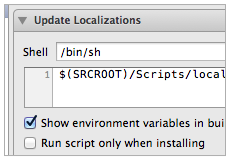
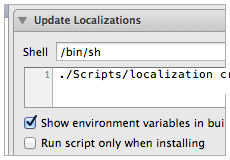
Updated documentation.
Images now match the text provided in the documentation. There's a bit more detail about how to specify the script path as well.

Changed region(s): [[0.2435, 0.4375, 1.0, 0.5938]]

diff --git a/Readme.md b/Readme.md
@@ -37,7 +37,7 @@ Once the scripts are copied, you need to configure your Xcode project to use the
 This is as simple as adding a few _Run Script_ build phases. In your Xcode project:
 
   1. Click on your project in the project navigator
-  1. Select on your target in the targets section
+  1. Select your target in the targets section
   1. Switch to the _Build Settings_ tab
   1. Set _Runpath Search Paths_ to `@executable_path/../Frameworks`
   1. Switch to the _Build Phases_ tab
@@ -56,9 +56,13 @@ This step is optional, but recommended. Simply add another _Run Script_ but do t
   1. Move this build phase **below** the _Copy Bundle Resources_ build phase
   1. Update the script to `./Scripts/localization verify -s. -r.`
 
-Note that these scripts do take a couple of options to allow you to specify where different files are located.
+Note that these scripts may need to be altered slightly depending on your configuration. The path
+to the script should relative to your project's `.xcodeproj` file. If you put the scripts folder in a
+folder called `External`, you would need to change the beginning of the script
+to `./External/Scripts/localization`. The scripts also
+take a couple of options to allow you to specify where different files are located.
 If your source files and xib files are located in the same directory as your
-project (your `.xcodeproj` file), then the options provided
+project's `.xcodeproj` file, then the options provided
 in the example above will be correct. If they're in a different location, though, you'll have to alter the
 arguments that are passed to the script. For most uses, you will only need to specify `-s`, the path to your
 source files, and `-r`, the path to your resources. Relative paths are acceptable.
